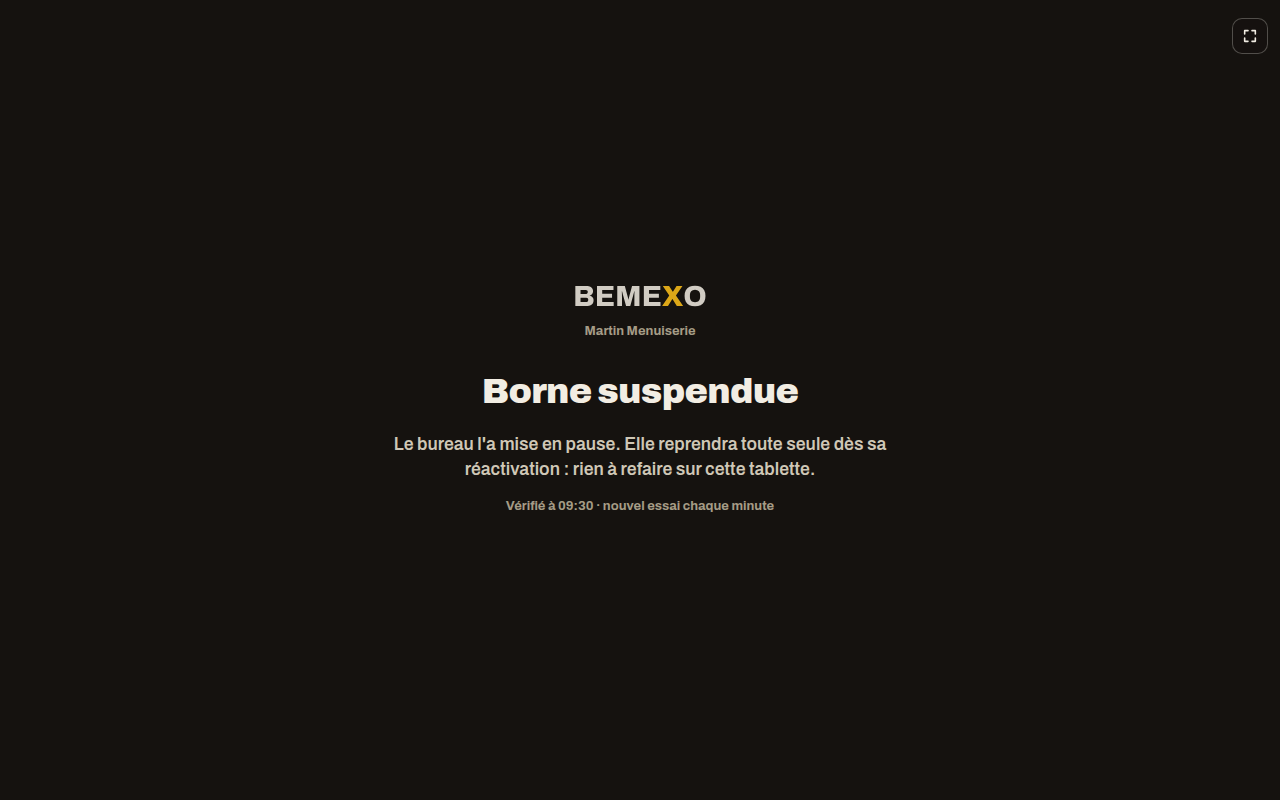
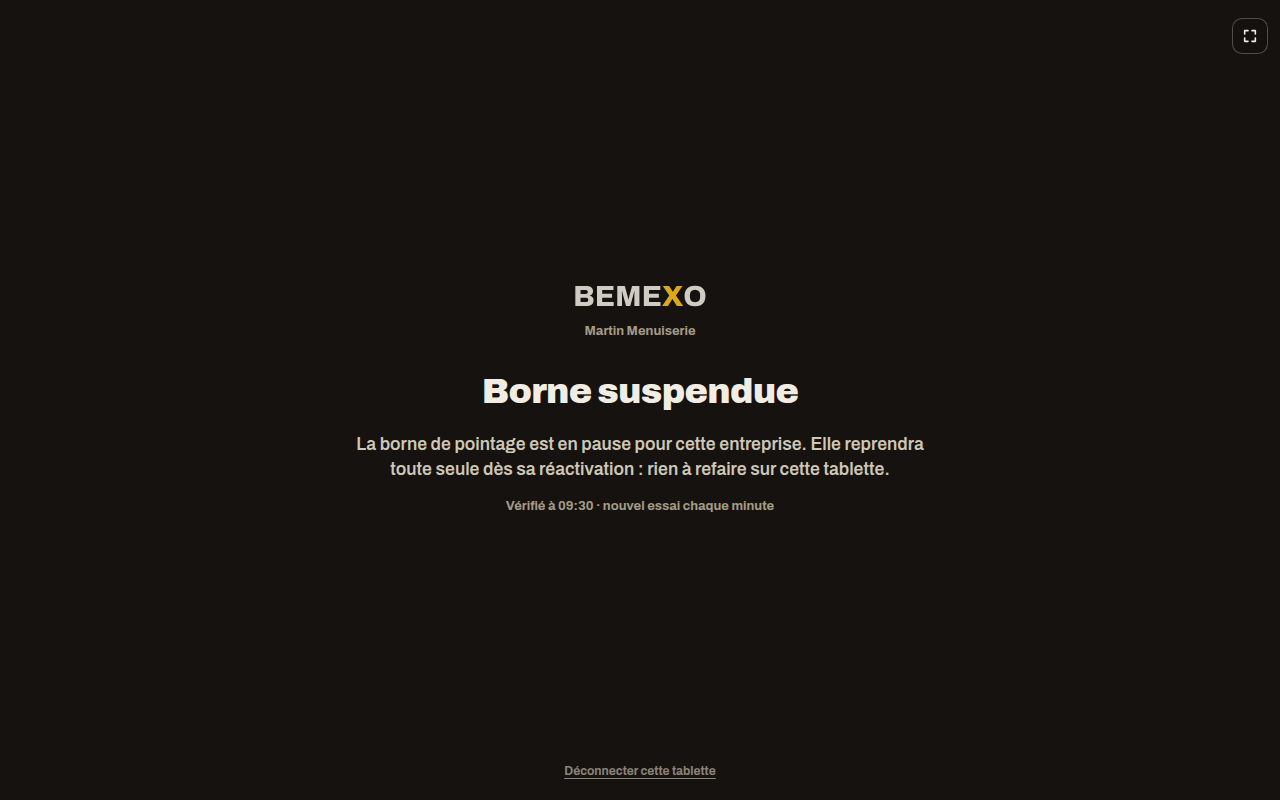
Lot 2 : relecture — borne suspendue déconnectable, sans écran forcé allumé
- « Borne suspendue » : lien discret « Déconnecter cette tablette » avec la
  même confirmation (unpair ne dépend pas de l'interrupteur) ; le bureau ne
  peut rien pendant la pause.
- Pendant la pause, le verrou d'écran n'est plus tenu (veille possible) ; il
  est repris à la réactivation.
- Texte exact : la borne est en pause pour l'entreprise (interrupteur
  BEMEXO), pas « le bureau l'a mise en pause » (page, en-tête, doc).
- navigator.storage.persist() aussi à l'ouverture d'une tablette déjà reliée.
- Aide d'installation : étapes numérotées ; « Jamais » avec espaces
  insécables (bureau et rappel de la borne).
- Harnais borne-allumee : 74 vérifications (pause sans verrou, déconnexion
  confirmée, persist à l'ouverture, liste numérotée) ; captures mises à jour.

Claude-Session: https://claude.ai/code/session_01UjXHEzdjb9t6bteo8SrVhu

Changed region(s): [[0.2812, 0.5312, 0.7188, 0.5938], [0.4375, 0.9375, 0.5625, 0.9688]]

diff --git a/app/borne/page.tsx b/app/borne/page.tsx
@@ -49,9 +49,11 @@
 //     toutes les 60 s ; s'il est refusé, un petit rappel « mise en veille sur
 //     Jamais » en bas à droite ;
 //   · plein écran au premier toucher, une seule fois (pas sur iPhone) ;
-//   · borne désactivée par l'entreprise (403) : écran « Borne suspendue », la
-//     tablette reste reliée et revérifie chaque minute. Seules une tablette
-//     déconnectée par le bureau (410) ou inconnue (401) oublient l'appairage.
+//   · borne mise en pause pour l'entreprise (403, interrupteur BEMEXO) : écran
+//     « Borne suspendue », la tablette reste reliée, ne garde plus l'écran
+//     allumé et revérifie chaque minute ; on peut quand même la déconnecter
+//     (lien discret + confirmation). Seules une tablette déconnectée par le
+//     bureau (410) ou inconnue (401) oublient l'appairage d'elles-mêmes.
 //
 // ?demo=1 : aperçu sans appairage (graine fictive, QR non valable, semaine
 // fictive construite par le même `buildBoard` que la fonction), seulement sur
@@ -281,12 +283,13 @@ const CSS = `
 /* Lot 2 (IA) : rappel discret quand l'écran n'est pas maintenu allumé (sous le QR et la veille). */
 .kb-wake{position:absolute;right:12px;bottom:10px;z-index:20;max-width:calc(100% - 24px);border:1px solid rgba(242,237,227,.18);background:rgba(21,18,15,.88);color:#a59c86;font:inherit;font-size:12px;font-weight:700;line-height:1.3;border-radius:99px;padding:5px 11px;cursor:pointer;text-align:left}
 .kb-wake b{color:#F2EDE3;font-weight:800}
-/* Lot 2 (IA) : borne suspendue par l'entreprise (403), la tablette reste reliée. */
+/* Lot 2 (IA) : borne en pause pour l'entreprise (403), la tablette reste reliée. */
 .kb-susp{position:absolute;inset:0;display:flex;flex-direction:column;align-items:center;justify-content:center;gap:14px;padding:32px;text-align:center}
 .kb-susp .kb-logo{height:clamp(18px,3vmin,26px);opacity:.85}
 .kb-susp h1{margin:10px 0 0;font-weight:900;font-size:clamp(26px,4.4vmin,40px);letter-spacing:-.02em;color:#F2EDE3}
 .kb-susp p{margin:0;max-width:34em;color:#cfc7b6;font-weight:600;font-size:clamp(15px,2.2vmin,19px);line-height:1.45}
 .kb-susp small{color:#a59c86;font-weight:700;font-size:13px}
+.kb-susp-out{position:absolute;left:50%;bottom:14px;transform:translateX(-50%);border:none;background:transparent;color:#8a8378;font:inherit;font-size:12px;font-weight:700;text-decoration:underline;text-underline-offset:3px;cursor:pointer;padding:6px 10px;white-space:nowrap}
 /* Portrait : date au-dessus de l'heure (plus de place pour le nom). */
 @media (orientation:portrait){
   :root{--kb-logo:clamp(13px,2.1vmin,18px)}
@@ -641,8 +644,8 @@ function Display({ paired, online, boardErr, awakeUntil, wake, onWake, onUnpair 
       {/* Lot 2 (IA) : écran non maintenu allumé → petit rappel (un toucher le masque). */}
       {(wake === 'denied' || wake === 'unsupported') && !hideWake && !paired.demo && (
         <button type="button" className="kb-wake" data-testid="kb-wake-hint" onClick={() => setHideWake(true)}
-          title="La tablette peut se mettre en veille. Dans ses réglages, mettez le verrouillage automatique (ou la mise en veille de l’écran) sur « Jamais », et laissez-la branchée.">
-          Écran non maintenu allumé · réglez la mise en veille sur <b>« Jamais »</b>
+          title="La tablette peut se mettre en veille. Dans ses réglages, mettez le verrouillage automatique (ou la mise en veille de l’écran) sur « Jamais », et laissez-la branchée.">
+          Écran non maintenu allumé · réglez la mise en veille sur <b>«&nbsp;Jamais&nbsp;»</b>
         </button>
       )}
 
@@ -683,20 +686,45 @@ function Display({ paired, online, boardErr, awakeUntil, wake, onWake, onUnpair 
 }
 
 /**
- * Lot 2 (IA) — l'entreprise a mis la borne en pause (403 de la fonction) : la
- * tablette RESTE reliée et revérifie chaque minute ; elle repart toute seule.
- * Pas de QR (il serait refusé).
+ * Lot 2 (IA) — la borne est en pause pour l'entreprise (403 de la fonction :
+ * `kiosk_enabled` coupé, interrupteur réservé à BEMEXO) : la tablette RESTE
+ * reliée et revérifie chaque minute ; elle repart toute seule. Pas de QR (il
+ * serait refusé). Le bureau ne peut rien faire pendant la pause (fonction en
+ * 403) : la tablette peut donc se déconnecter elle-même, toujours confirmé
+ * (`unpair` ne dépend pas de l'interrupteur).
  */
-function Suspended({ companyName, checkedAt }: { companyName: string; checkedAt: number | null }) {
+function Suspended({ companyName, checkedAt, onUnpair }: { companyName: string; checkedAt: number | null; onUnpair: () => void }) {
+  const [confirm, setConfirm] = useState(false);
+  // La confirmation ne reste pas affichée indéfiniment (comme sur le planning).
+  useEffect(() => {
+    if (!confirm) return;
+    const t = setTimeout(() => setConfirm(false), 20 * 1000);
+    return () => clearTimeout(t);
+  }, [confirm]);
   return (
     <div className="kb" data-testid="kb-suspended">
       <div className="kb-susp" role="status">
         <img className="kb-logo" src="/bemexo-wordmark-light.svg" alt="BEMEXO" draggable={false} />
         {companyName && <small>{companyName}</small>}
         <h1>Borne suspendue</h1>
-        <p>Le bureau l&apos;a mise en pause. Elle reprendra toute seule dès sa réactivation&nbsp;: rien à refaire sur cette tablette.</p>
+        <p>La borne de pointage est en pause pour cette entreprise. Elle reprendra toute seule dès sa réactivation&nbsp;: rien à refaire sur cette tablette.</p>
         {checkedAt && <small>Vérifié à {parisTime(checkedAt)} · nouvel essai chaque minute</small>}
       </div>
+      <button type="button" className="kb-susp-out" data-testid="kb-susp-unpair" onClick={() => setConfirm(true)}>
+        Déconnecter cette tablette
+      </button>
+      {confirm && (
+        <div className="kb-confirm" role="dialog" aria-label="Déconnecter la tablette">
+          <div className="kb-confirm-card" data-testid="kb-unpair-confirm">
+            <h2>Déconnecter cette tablette ?</h2>
+            <p>Elle oubliera cette entreprise. Pour la relier de nouveau, il faudra un nouveau code du bureau, une fois la borne réactivée.</p>
+            <div>
+              <button type="button" className="kb-btn yes" onClick={onUnpair}>Oui, déconnecter</button>
+              <button type="button" className="kb-btn no" onClick={() => setConfirm(false)}>Annuler</button>
+            </div>
+          </div>
+        </div>
+      )}
     </div>
   );
 }
@@ -794,9 +822,15 @@ export default function BornePage() {
     pairedRef.current = p;
     setPaired(p);
     setReady(true);
+    // Lot 2 (IA) : une tablette reliée AVANT ce lot le demande aussi (sans nouvel appairage).
+    if (p && !p.demo) persistStorage();
   }, []);
 
-  const wake = useWakeLock(!!paired);
+  // Lot 2 (IA) : pendant une pause (« Borne suspendue »), l'écran n'est plus
+  // forcé allumé : la tablette peut se mettre en veille, la boucle d'une minute
+  // suffit pour repartir.
+  const suspended = suspendedAt !== null;
+  const wake = useWakeLock(!!paired && !suspended);
   useFullscreenOnFirstTouch(!!paired);
 
   // Déconnectée par le bureau ou remplacée par une autre tablette (410), ou
@@ -904,7 +938,6 @@ export default function BornePage() {
   }, [paired?.kioskId, sync, fetchBoard]);
 
   // Lot 2 (IA) : borne suspendue → on revérifie chaque minute (sans rien effacer).
-  const suspended = suspendedAt !== null;
   useEffect(() => {
     if (!suspended) return;
     const id = setInterval(() => { const p = pairedRef.current; if (p) sync(p); }, SUSPENDED_RETRY_MS);
@@ -925,7 +958,7 @@ export default function BornePage() {
     <>
       <style dangerouslySetInnerHTML={CSS_HTML} />
       {paired && suspended ? (
-        <Suspended companyName={paired.companyName} checkedAt={suspendedAt} />
+        <Suspended companyName={paired.companyName} checkedAt={suspendedAt} onUnpair={unpairHere} />
       ) : paired ? (
         <Display
           paired={paired}

diff --git a/components/kiosk-admin.tsx b/components/kiosk-admin.tsx
@@ -17,7 +17,7 @@
 //   · un seul lien discret « Déconnecter la tablette » (confirmation sur place) ;
 //   · « Horaires d'ouverture » (facultatifs) : enregistrés dès qu'ils changent.
 // Lot 2 (IA) : « Installer la tablette », une aide courte, repliée par défaut
-// (icône d'écran d'accueil, verrouillage automatique sur « Jamais »…).
+// (icône d'écran d'accueil, verrouillage automatique sur « Jamais »…).
 // Plus de liste, plus de « Ajouter une borne », plus de lieu ni de nom, plus de GPS.
 //
 // Toutes les écritures passent par la fonction `kiosk` (qui revérifie le rôle
@@ -113,7 +113,8 @@ const CSS = `
 .ka-help summary::after{content:'';margin-left:auto;width:7px;height:7px;border-right:2px solid #8a8378;border-bottom:2px solid #8a8378;transform:rotate(45deg) translateY(-2px)}
 .ka-help[open] summary::after{transform:rotate(-135deg) translateY(-2px)}
 .ka-help summary small{font-weight:600;color:#9a948a;font-size:13px}
-.ka-help ol{margin:0;padding:0 14px 12px 32px;display:flex;flex-direction:column;gap:7px;font-size:13px;line-height:1.45;color:#3d3933;font-weight:500}
+.ka-help ol{margin:0;padding:0 14px 12px 32px;list-style:decimal;display:flex;flex-direction:column;gap:7px;font-size:13px;line-height:1.45;color:#3d3933;font-weight:500}
+.ka-help li::marker{font-weight:800;color:#8a8378}
 .ka-help li b{font-weight:800;color:#15120F}
 .ka-help .ka-muted{font-weight:500}
 @media(max-width:420px){.ka-qr{width:76px;height:76px}.ka-code{padding:14px;gap:12px}}
@@ -484,7 +485,7 @@ export default function KioskAdmin({ open, onOpenChange, companyId }: Props) {
             <ol>
               <li>Sur la tablette, ouvrez <b>{borneLabel}</b>, puis <b>Ajouter à l’écran d’accueil</b> <span className="ka-muted">(iPad : bouton Partager ; Android : menu ⋮ → Installer l’application)</span>.</li>
               <li>Ouvrez la borne <b>depuis l’icône installée</b> et reliez-la avec le code ci-dessus. Sur iPad, l’icône a sa propre mémoire : reliez-la depuis l’icône, pas depuis Safari.</li>
-              <li>Réglez le <b>verrouillage automatique sur « Jamais »</b> <span className="ka-muted">(iPad : Réglages › Luminosité et affichage ; Android : Paramètres › Affichage › Mise en veille de l’écran, au maximum)</span> et laissez la tablette branchée.</li>
+              <li>Réglez le <b>verrouillage automatique sur « Jamais »</b> <span className="ka-muted">(iPad : Réglages › Luminosité et affichage ; Android : Paramètres › Affichage › Mise en veille de l’écran, au maximum)</span> et laissez la tablette branchée.</li>
               <li>Facultatif : <b>Accès guidé</b> (iPad) ou <b>Épinglage d’application</b> (Android) pour que la tablette reste sur la borne.</li>
               <li>Déjà une ancienne icône BEMEXO sur la tablette ? Supprimez-la et ajoutez-la de nouveau depuis {borneLabel} : elle ouvrira directement la borne, en plein écran.</li>
             </ol>

diff --git a/docs/borne-allumee.md b/docs/borne-allumee.md
@@ -19,25 +19,31 @@ Front seulement : aucune migration, aucune fonction à redéployer.
    quand la tablette le relâche (batterie faible…), au retour sur la page et
    toutes les 60 s. S'il est refusé ou si la tablette ne sait pas le faire, un
    petit rappel apparaît en bas à droite : « Écran non maintenu allumé ·
-   réglez la mise en veille sur « Jamais » » (un toucher le masque). Pendant
+   réglez la mise en veille sur « Jamais » » (un toucher le masque). Pendant
    les heures de veille, l'écran reste noir mais allumé, comme avant.
 4. **Plein écran au premier toucher**, une seule fois (le navigateur exige un
    geste). Rien sur iPhone, qui ne le permet pas. L'icône plein écran marche
    comme avant.
-5. **« Borne suspendue » au lieu de déconnecter.** Si l'entreprise désactive
-   la borne (même quelques minutes), la tablette affiche « Borne suspendue — le
-   bureau l'a mise en pause », reste reliée et revérifie chaque minute ; elle
-   repart toute seule. Seule une tablette déconnectée par le bureau, remplacée
-   par une autre, ou inconnue, oublie son appairage (comme avant).
+5. **« Borne suspendue » au lieu de déconnecter.** Si la borne est mise en
+   pause pour l'entreprise (interrupteur réservé à BEMEXO, même quelques
+   minutes), la tablette affiche « Borne suspendue — la borne de pointage est
+   en pause pour cette entreprise », reste reliée et revérifie chaque minute ;
+   elle repart toute seule. Pendant la pause, l'écran n'est plus forcé allumé
+   (la tablette peut se mettre en veille). Le bureau ne peut rien faire pendant
+   la pause : **seule la tablette peut alors se déconnecter**, par le lien
+   discret « Déconnecter cette tablette » en bas de l'écran, toujours avec
+   confirmation. Seule une tablette déconnectée par le bureau, remplacée par
+   une autre, ou inconnue, oublie son appairage d'elle-même (comme avant).
 6. **Appairage mieux gardé** : la tablette demande au navigateur de ne pas
-   effacer ses données pour faire de la place (`navigator.storage.persist()`).
+   effacer ses données pour faire de la place (`navigator.storage.persist()`),
+   à l'appairage et à chaque ouverture d'une tablette déjà reliée.
 
 ## Ce qui change pour le bureau
 
 Dans la fenêtre « Borne de pointage », une aide repliée **« Installer la
 tablette »** : ajouter la borne à l'écran d'accueil, l'ouvrir depuis l'icône
 et la relier depuis l'icône (sur iPad l'icône a sa propre mémoire), régler le
-verrouillage automatique sur « Jamais », Accès guidé / Épinglage, et remplacer
+verrouillage automatique sur « Jamais », Accès guidé / Épinglage, et remplacer
 une ancienne icône.
 
 ## À faire une fois sur la tablette actuelle
